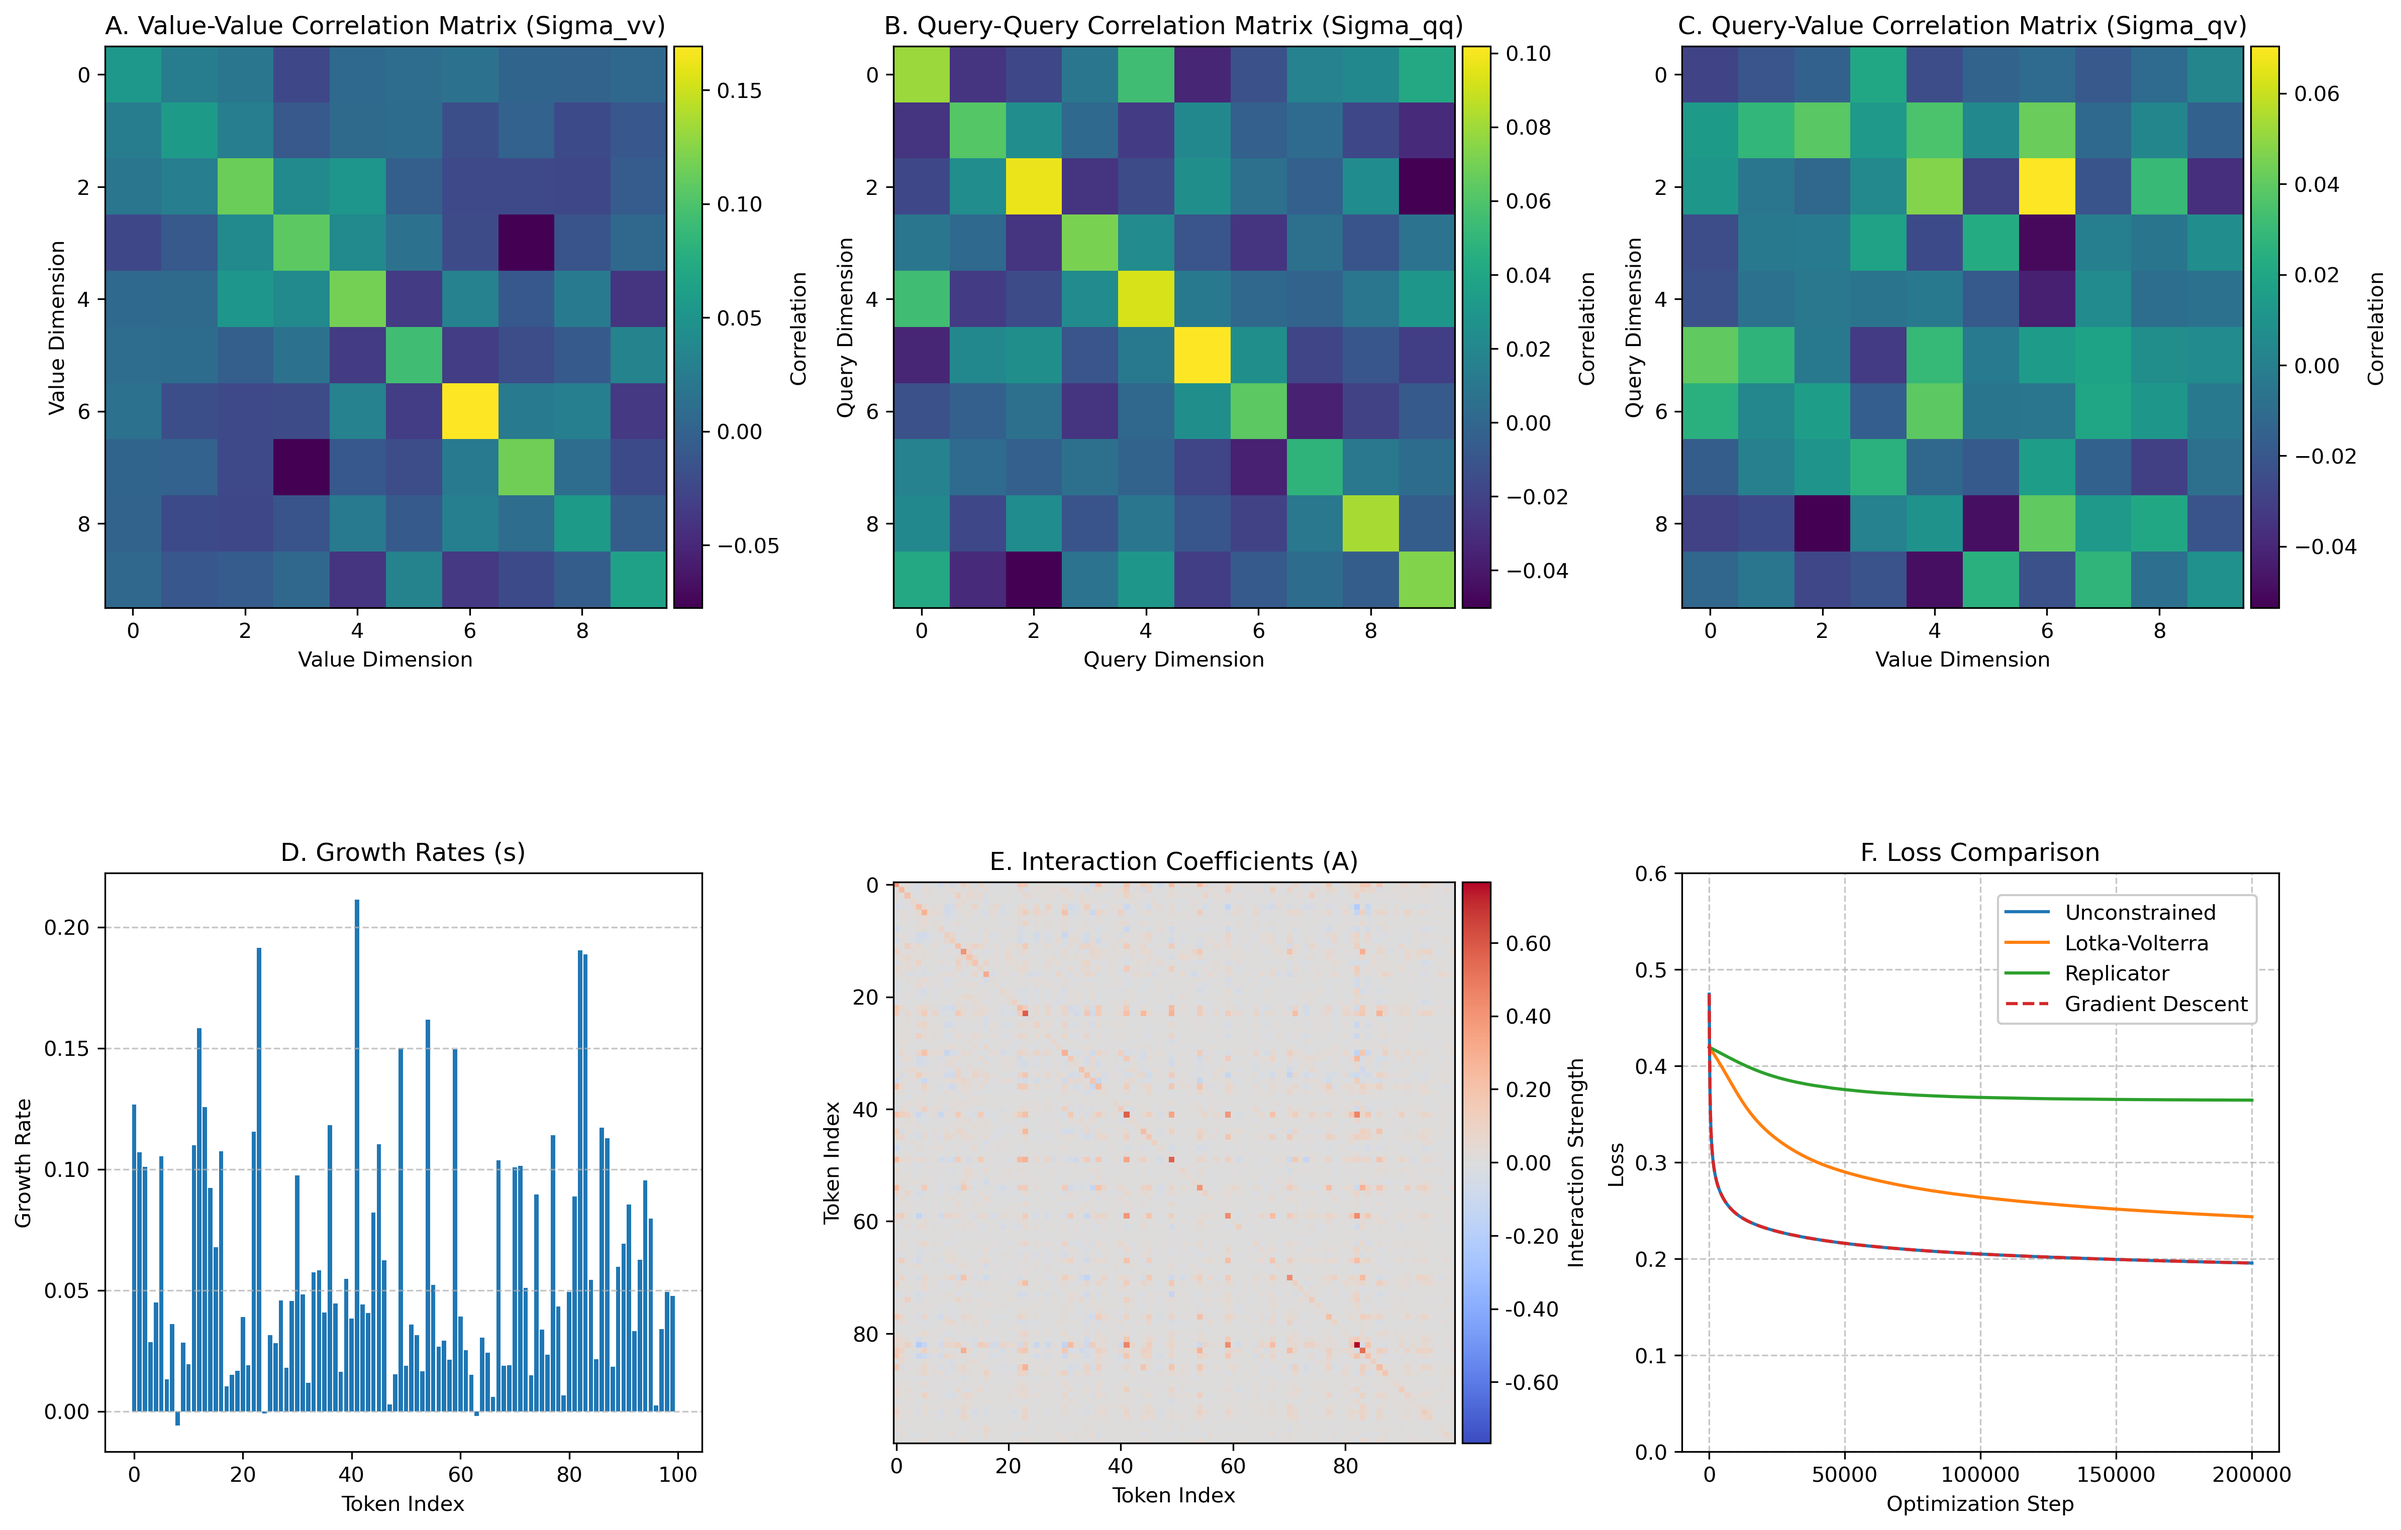
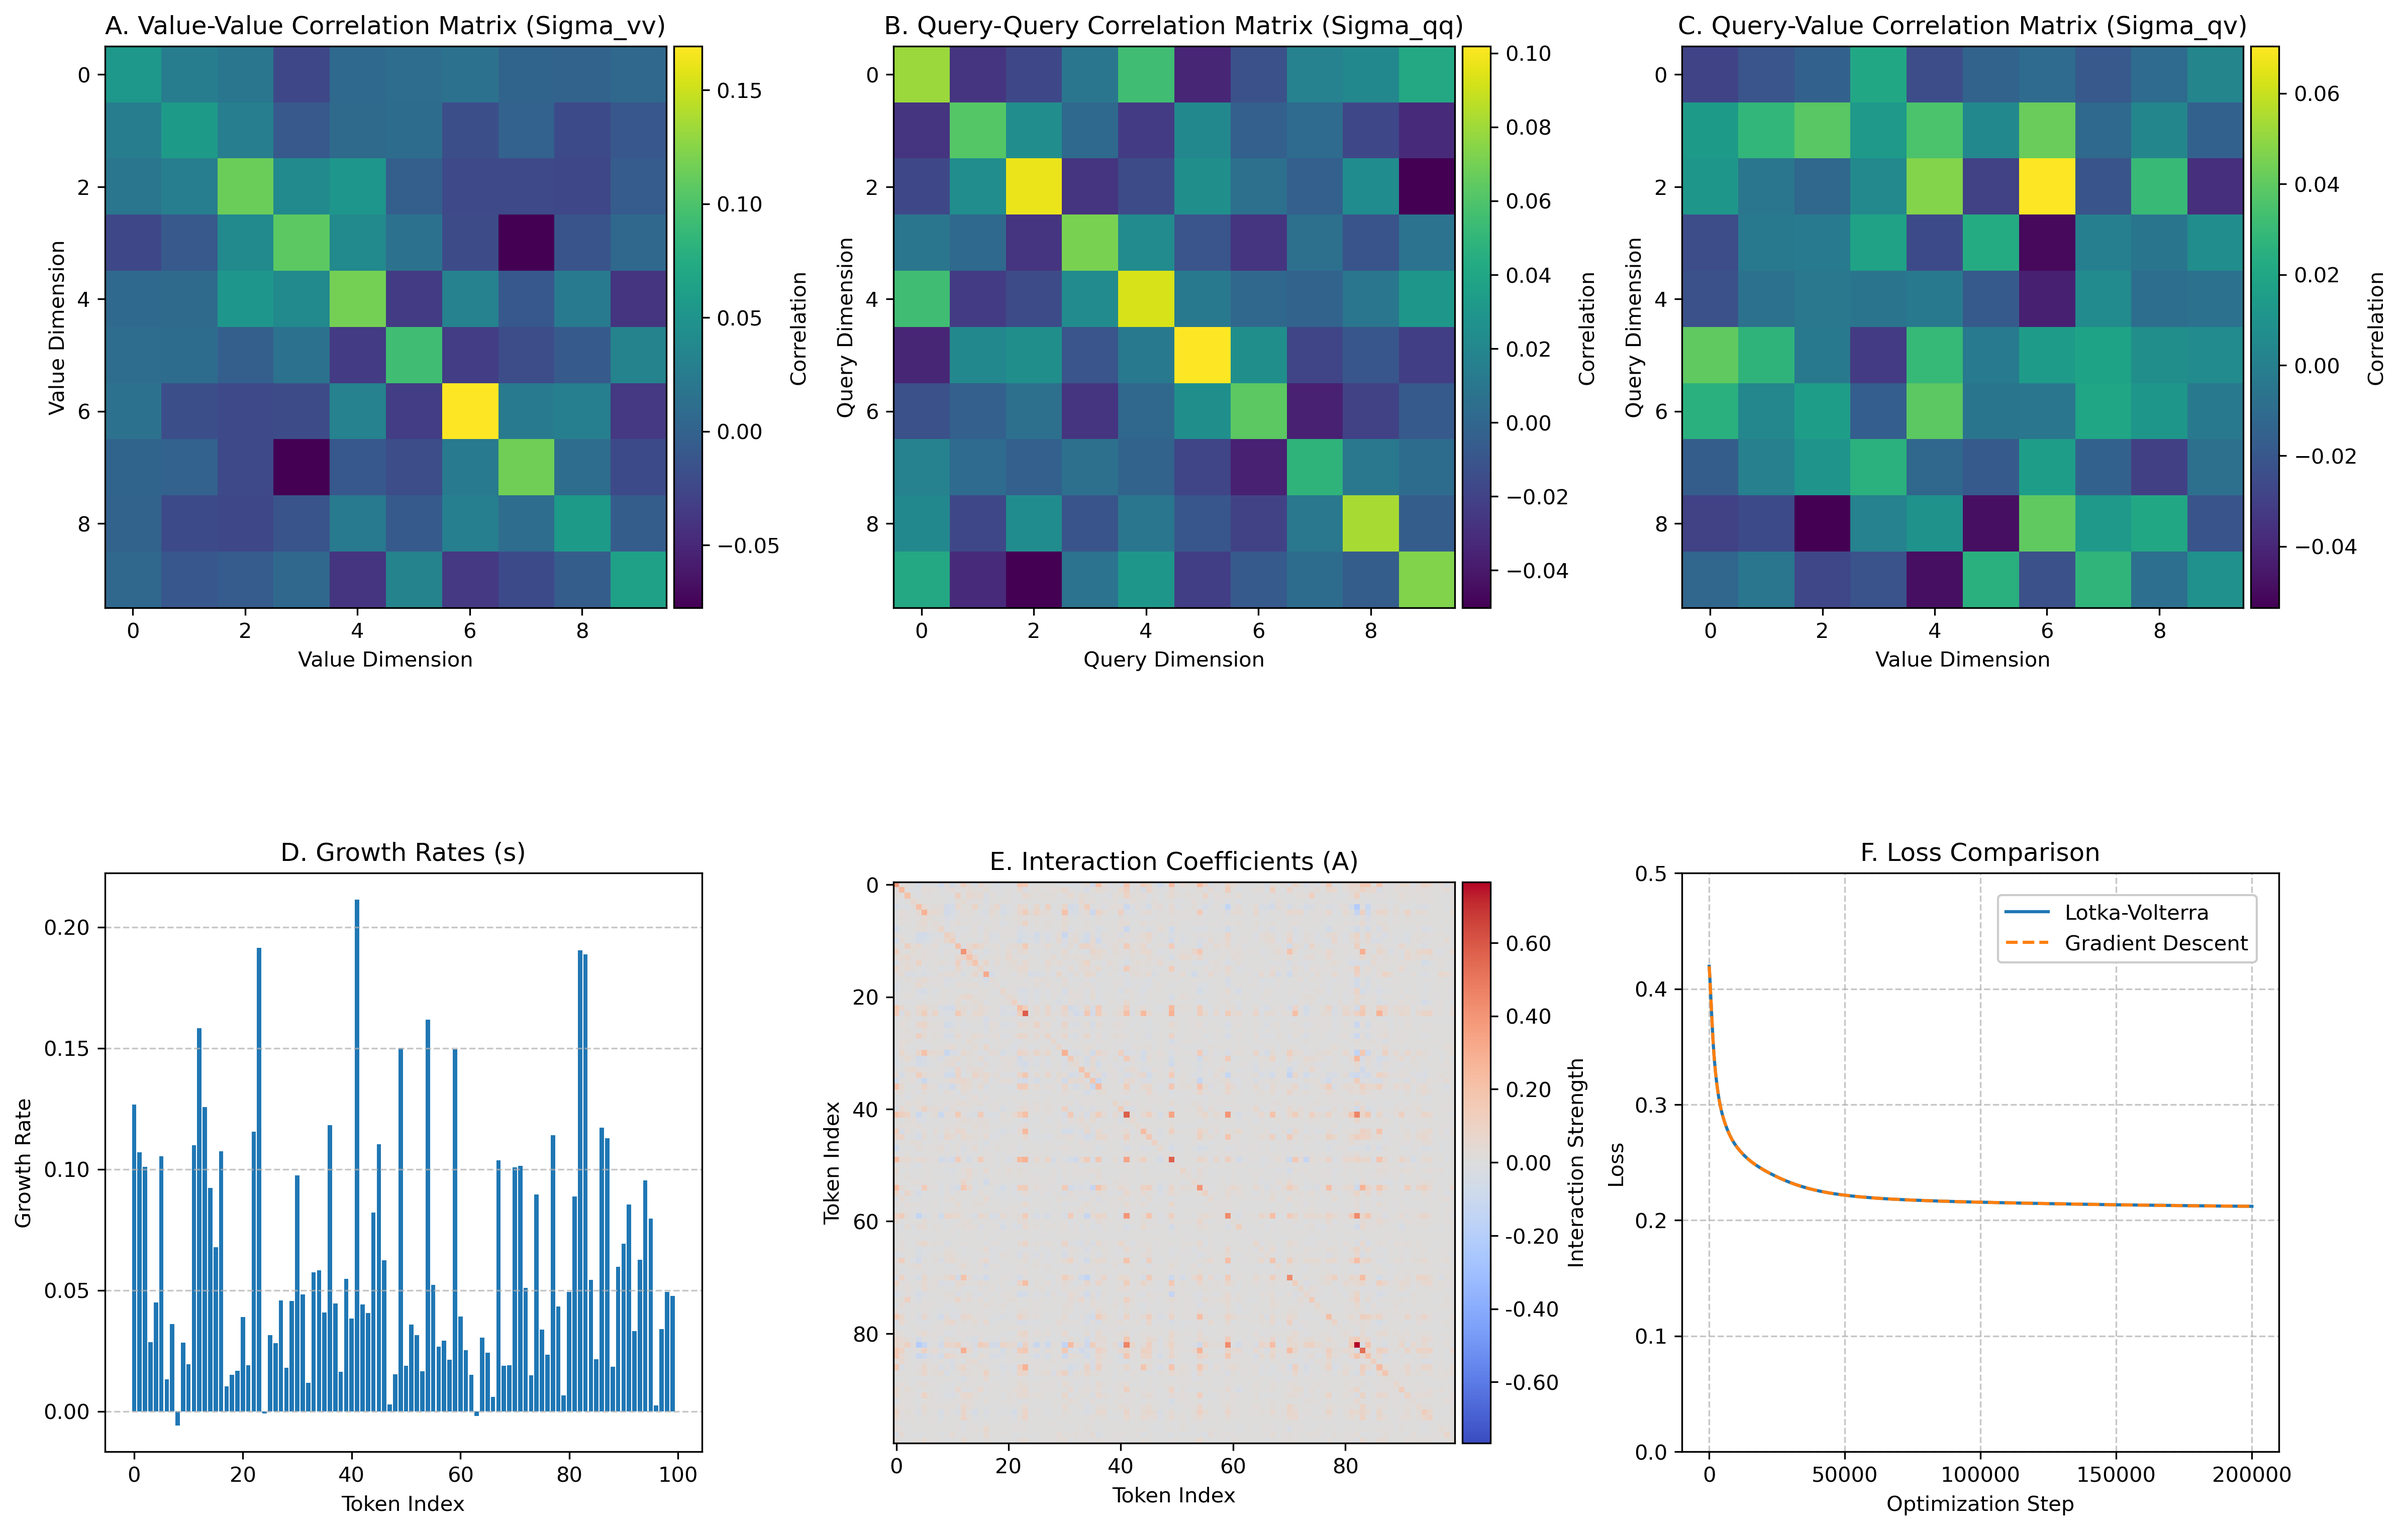
exponentiated gradient descent

diff --git a/simulations/make_figure.py b/simulations/make_figure.py
@@ -26,36 +26,18 @@ gradient_descent_memory = memory.GradientDescentMemory(
     V=V
 )
 
-correlation_memory = memory.CorrelationBasedMemory(
-    K=K, 
-    V=V
-)
-
 lotka_volterra_memory = memory.LotkaVolterraMemory(
     K=K, 
     V=V
 )
 
-replicator_memory = memory.ReplicatorMemory(
-    K=K, 
-    V=V
-)
-
-correlation_memory.compute_correlations(Q, V)
-correlation_memory.compute_ecological_params()
-
 lotka_volterra_memory.compute_correlations(Q, V)
 lotka_volterra_memory.compute_ecological_params()
 
-replicator_memory.compute_correlations(Q, V)
-replicator_memory.compute_ecological_params()
-
 fit_steps = 200000
-step_size = 1e-3
+step_size = 1e-2
 losses = gradient_descent_memory.fit(Q, V, lr=step_size, n_steps=fit_steps)
-corr_loss = correlation_memory.fit(Q, V, t_max=fit_steps * step_size, dt=step_size, store_losses=True)
 lv_loss = lotka_volterra_memory.fit(Q, V, t_max=fit_steps * step_size, dt=step_size, store_losses=True)
-rep_loss = replicator_memory.fit(Q, V, t_max=fit_steps * step_size, dt=step_size, store_losses=True)
 
 # Create figure with GridSpec
 fig = plt.figure(figsize=(18, 12))
@@ -63,7 +45,7 @@ gs = fig.add_gridspec(2, 3, hspace=0.5, wspace=0.5)  # Increased spacing between
 axes = gs.subplots()
 
 # Plot Sigma_vv
-heatmap1 = axes[0, 0].imshow(correlation_memory.Sigma_vv.detach().numpy(), cmap='viridis', aspect='equal')
+heatmap1 = axes[0, 0].imshow(lotka_volterra_memory.Sigma_vv.detach().numpy(), cmap='viridis', aspect='equal')
 divider = make_axes_locatable(axes[0, 0])
 cax = divider.append_axes("right", size="5%", pad=0.05)
 fig.colorbar(heatmap1, cax=cax, label='Correlation')
@@ -72,7 +54,7 @@ axes[0, 0].set_xlabel('Value Dimension')
 axes[0, 0].set_ylabel('Value Dimension')
 
 # Plot Sigma_qq
-heatmap2 = axes[0, 1].imshow(correlation_memory.Sigma_qq.detach().numpy(), cmap='viridis', aspect='equal')
+heatmap2 = axes[0, 1].imshow(lotka_volterra_memory.Sigma_qq.detach().numpy(), cmap='viridis', aspect='equal')
 divider = make_axes_locatable(axes[0, 1])
 cax = divider.append_axes("right", size="5%", pad=0.05)
 fig.colorbar(heatmap2, cax=cax, label='Correlation')
@@ -81,7 +63,7 @@ axes[0, 1].set_xlabel('Query Dimension')
 axes[0, 1].set_ylabel('Query Dimension')
 
 # Plot Sigma_qv
-heatmap3 = axes[0, 2].imshow(correlation_memory.Sigma_qv.detach().numpy(), cmap='viridis', aspect='equal')
+heatmap3 = axes[0, 2].imshow(lotka_volterra_memory.Sigma_qv.detach().numpy(), cmap='viridis', aspect='equal')
 divider = make_axes_locatable(axes[0, 2])
 cax = divider.append_axes("right", size="5%", pad=0.05)
 fig.colorbar(heatmap3, cax=cax, label='Correlation')
@@ -90,7 +72,7 @@ axes[0, 2].set_xlabel('Value Dimension')
 axes[0, 2].set_ylabel('Query Dimension')
 
 # Plot growth rates (s)
-s_values = correlation_memory.s.detach().numpy()
+s_values = lotka_volterra_memory.s.detach().numpy()
 axes[1, 0].bar(np.arange(len(s_values)), s_values)
 axes[1, 0].set_title('D. Growth Rates (s)')
 axes[1, 0].set_xlabel('Token Index')
@@ -98,9 +80,9 @@ axes[1, 0].set_ylabel('Growth Rate')
 axes[1, 0].grid(axis='y', linestyle='--', alpha=0.7)
 
 # Plot interaction coefficients (A)
-heatmap4 = axes[1, 1].imshow(correlation_memory.A.detach().numpy(), cmap='coolwarm', 
-                            vmin=-np.abs(correlation_memory.A.detach().numpy()).max(), 
-                            vmax=np.abs(correlation_memory.A.detach().numpy()).max(),
+heatmap4 = axes[1, 1].imshow(lotka_volterra_memory.A.detach().numpy(), cmap='coolwarm', 
+                            vmin=-np.abs(lotka_volterra_memory.A.detach().numpy()).max(), 
+                            vmax=np.abs(lotka_volterra_memory.A.detach().numpy()).max(),
                             aspect='equal')
 divider = make_axes_locatable(axes[1, 1])
 cax = divider.append_axes("right", size="5%", pad=0.05)
@@ -114,14 +96,12 @@ axes[1, 1].set_xlabel('Token Index')
 axes[1, 1].set_ylabel('Token Index')
 
 # Plot losses from gradient descent
-axes[1, 2].plot(corr_loss.detach().numpy(), label='Unconstrained')
 axes[1, 2].plot(lv_loss.detach().numpy(), label='Lotka-Volterra')
-axes[1, 2].plot(rep_loss.detach().numpy(), label='Replicator')
-axes[1, 2].plot(losses.detach().numpy(), label='Gradient Descent', linestyle='--')
+axes[1, 2].plot(losses.detach().numpy(), label='Gradient Descent',  linestyle='--')
 axes[1, 2].set_title('F. Loss Comparison')
 axes[1, 2].set_xlabel('Optimization Step')
 axes[1, 2].set_ylabel('Loss')
-axes[1, 2].set_ylim(0, 0.6)
+axes[1, 2].set_ylim(0, 0.5)
 axes[1, 2].grid(True, linestyle='--', alpha=0.7)
 # Reduce number of x-ticks to prevent overlapping
 axes[1, 2].xaxis.set_major_locator(plt.MaxNLocator(5))

diff --git a/ecoattention/expo.py b/ecoattention/expo.py
@@ -1,0 +1,47 @@
+import torch
+import torch.optim as optim
+
+
+class ExponentiatedSGD(optim.Optimizer):
+    """
+    Implements Exponentiated Gradient Descent.
+    
+    This optimizer updates weights using the rule:
+    w_l' = w_l * exp(-lr * grad_l)
+    
+    where:
+    - w_l is the weight
+    - lr is the learning rate
+    - grad_l is the gradient of the cost function with respect to w_l
+    """
+    
+    def __init__(self, params, lr=0.01, weight_decay=0):
+        defaults = dict(lr=lr, weight_decay=weight_decay)
+        super(ExponentiatedSGD, self).__init__(params, defaults)
+    
+    def step(self, closure=None):
+        """Performs a single optimization step.
+        
+        Args:
+            closure (callable, optional): A closure that reevaluates the model
+                and returns the loss.
+        """
+        loss = None
+        if closure is not None:
+            loss = closure()
+            
+        for group in self.param_groups:
+            for p in group['params']:
+                if p.grad is None:
+                    continue
+                
+                grad = p.grad.data
+                
+                if group['weight_decay'] != 0:
+                    grad = grad.add(p.data, alpha=group['weight_decay'])
+                
+                # Exponentiated update: w_l' = w_l * exp(-lr * grad_l)
+                p.data.mul_(torch.exp(-group['lr'] * grad))
+                
+        return loss
+    

diff --git a/ecoattention/memory.py b/ecoattention/memory.py
@@ -1,6 +1,7 @@
 import torch
 import torch.nn as nn
 from . import integrate
+from .expo import ExponentiatedSGD
 
 
 ################################################################################
@@ -37,7 +38,7 @@ class GradientDescentMemory(nn.Module):
         self.L = K.shape[0]
         self.d_k = K.shape[1]
         self.d_v = V.shape[1]
-        self.w = nn.Parameter(torch.zeros(self.L, device=self.device))
+        self.w = nn.Parameter(torch.ones(self.L, device=self.device) / self.L)
 
     @property
     def J(self):
@@ -91,7 +92,7 @@ class GradientDescentMemory(nn.Module):
         Returns:
             torch.Tensor: Vector of loss values at each optimization step
         """
-        optimizer = torch.optim.SGD(self.parameters(), lr=lr)
+        optimizer = ExponentiatedSGD(self.parameters(), lr=lr)
         losses = torch.zeros(n_steps)
         for i in range(n_steps):
             optimizer.zero_grad()
